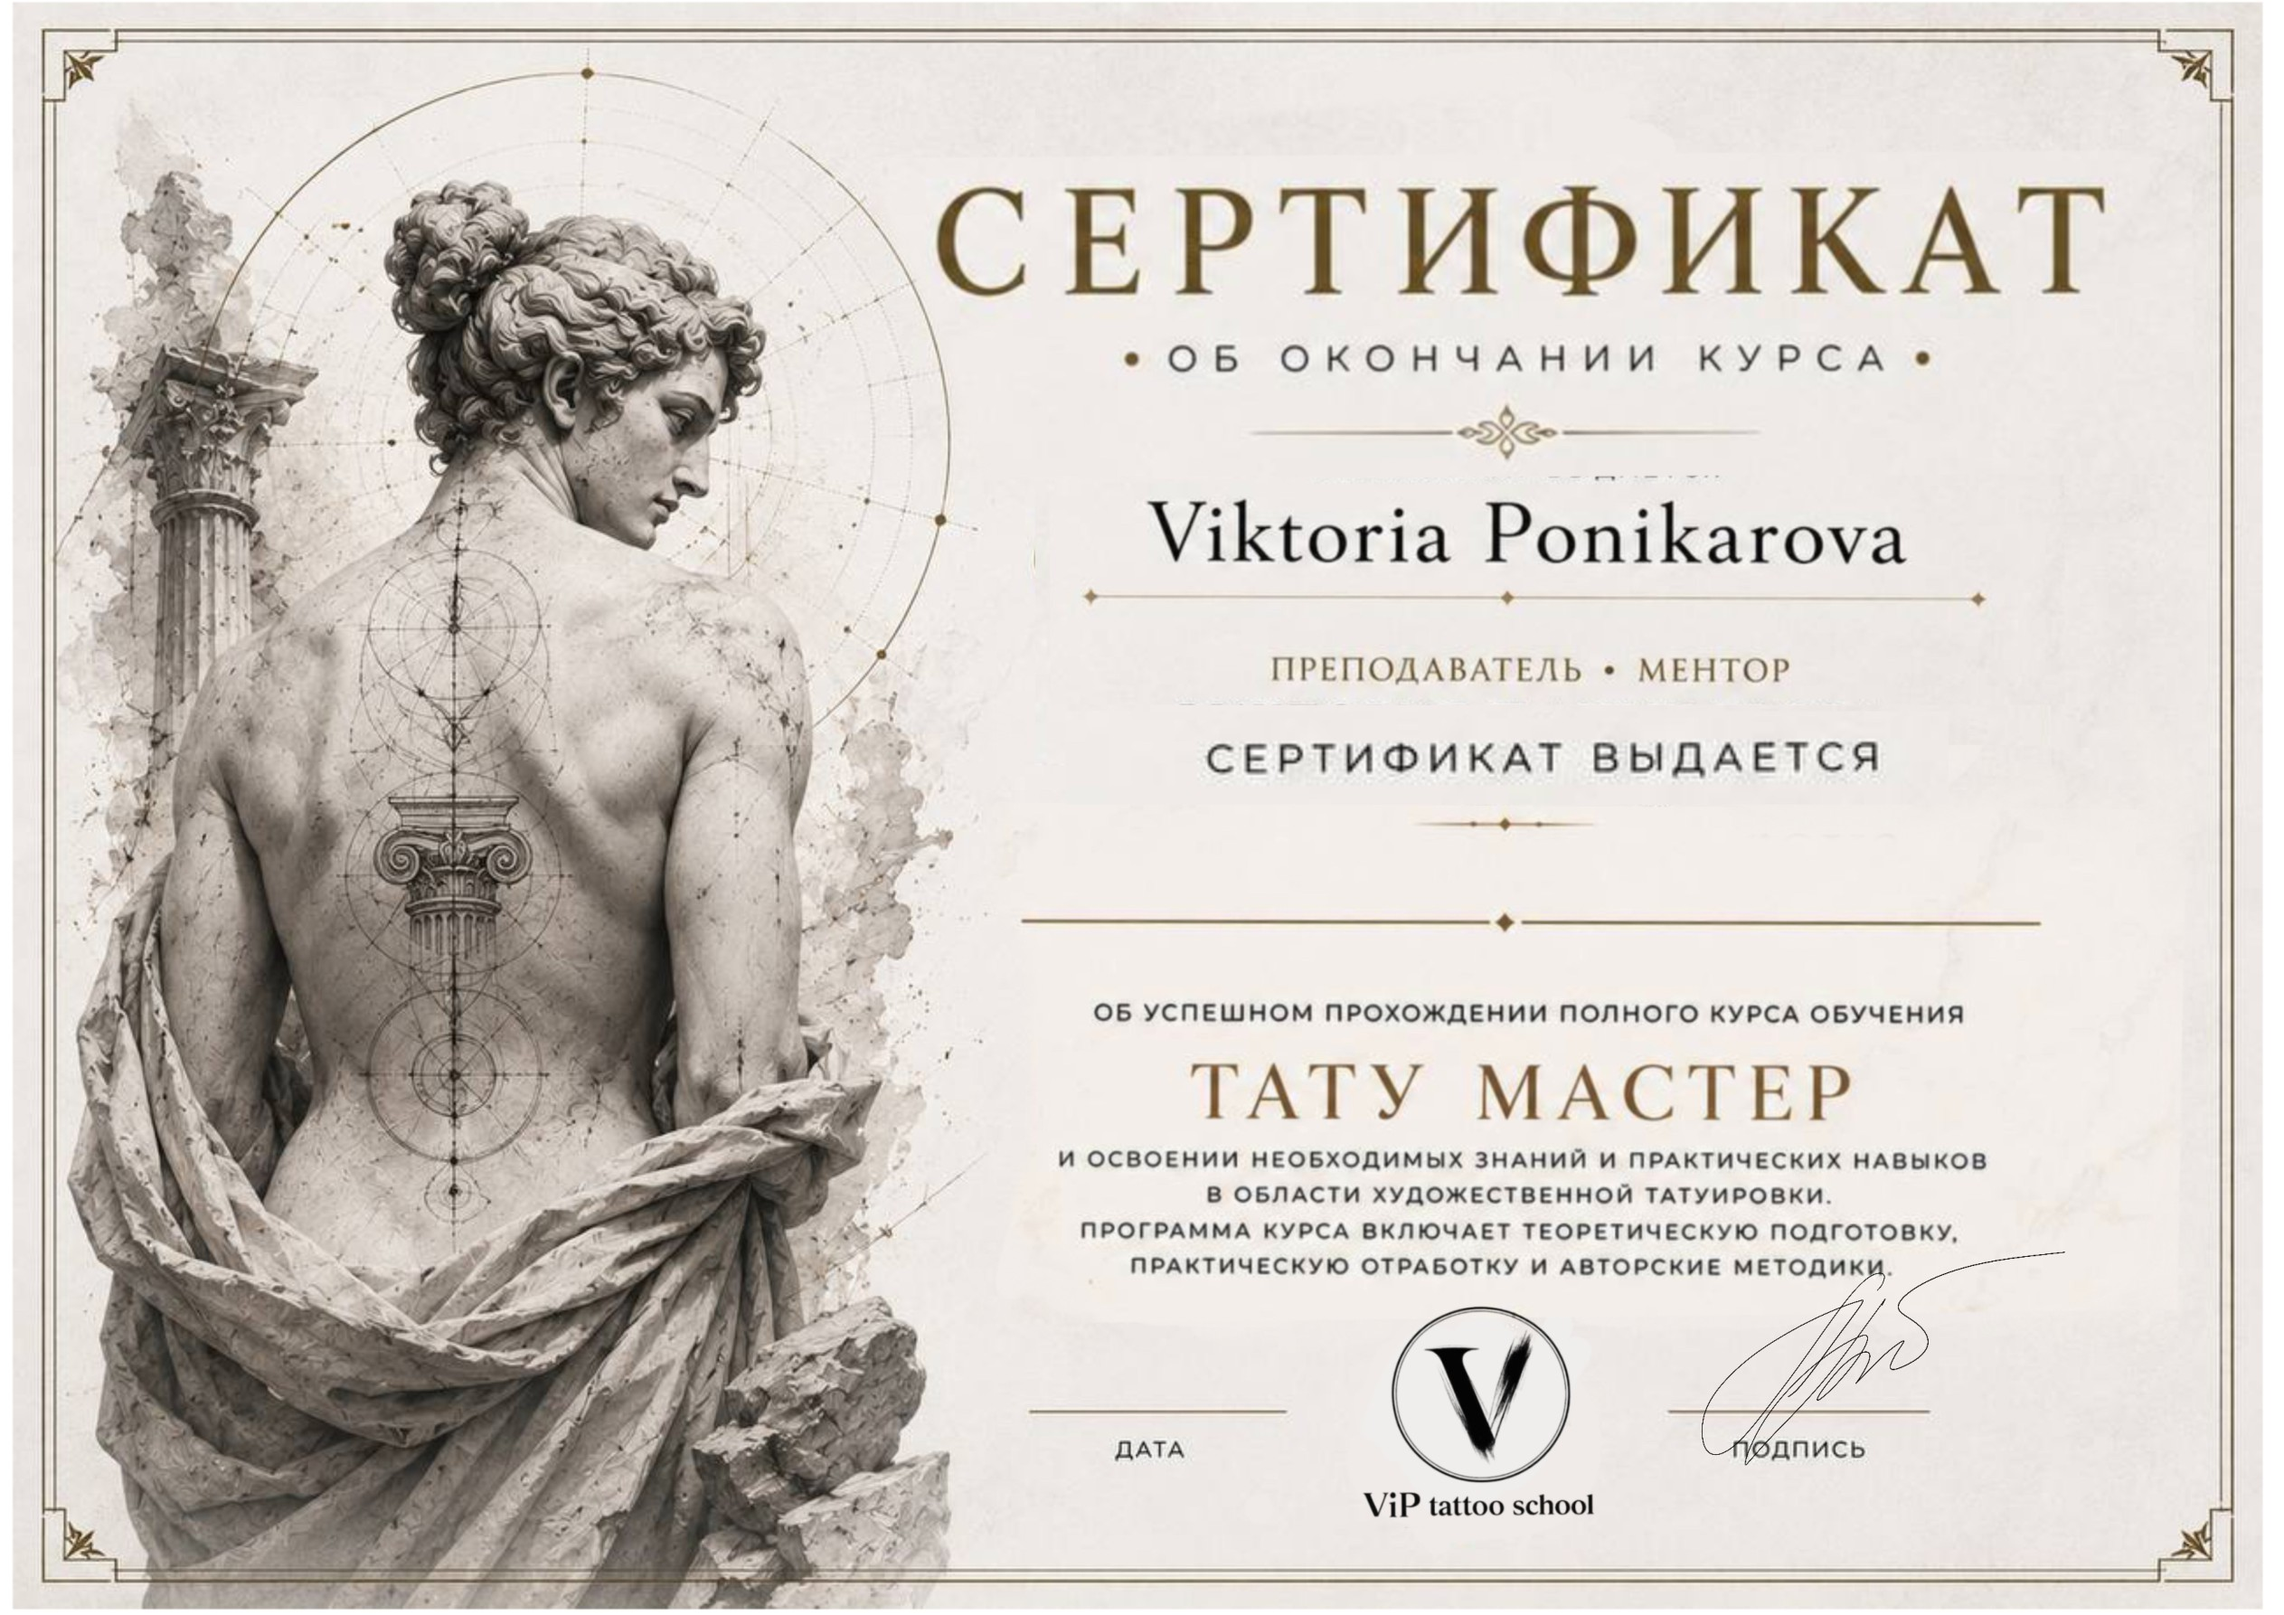
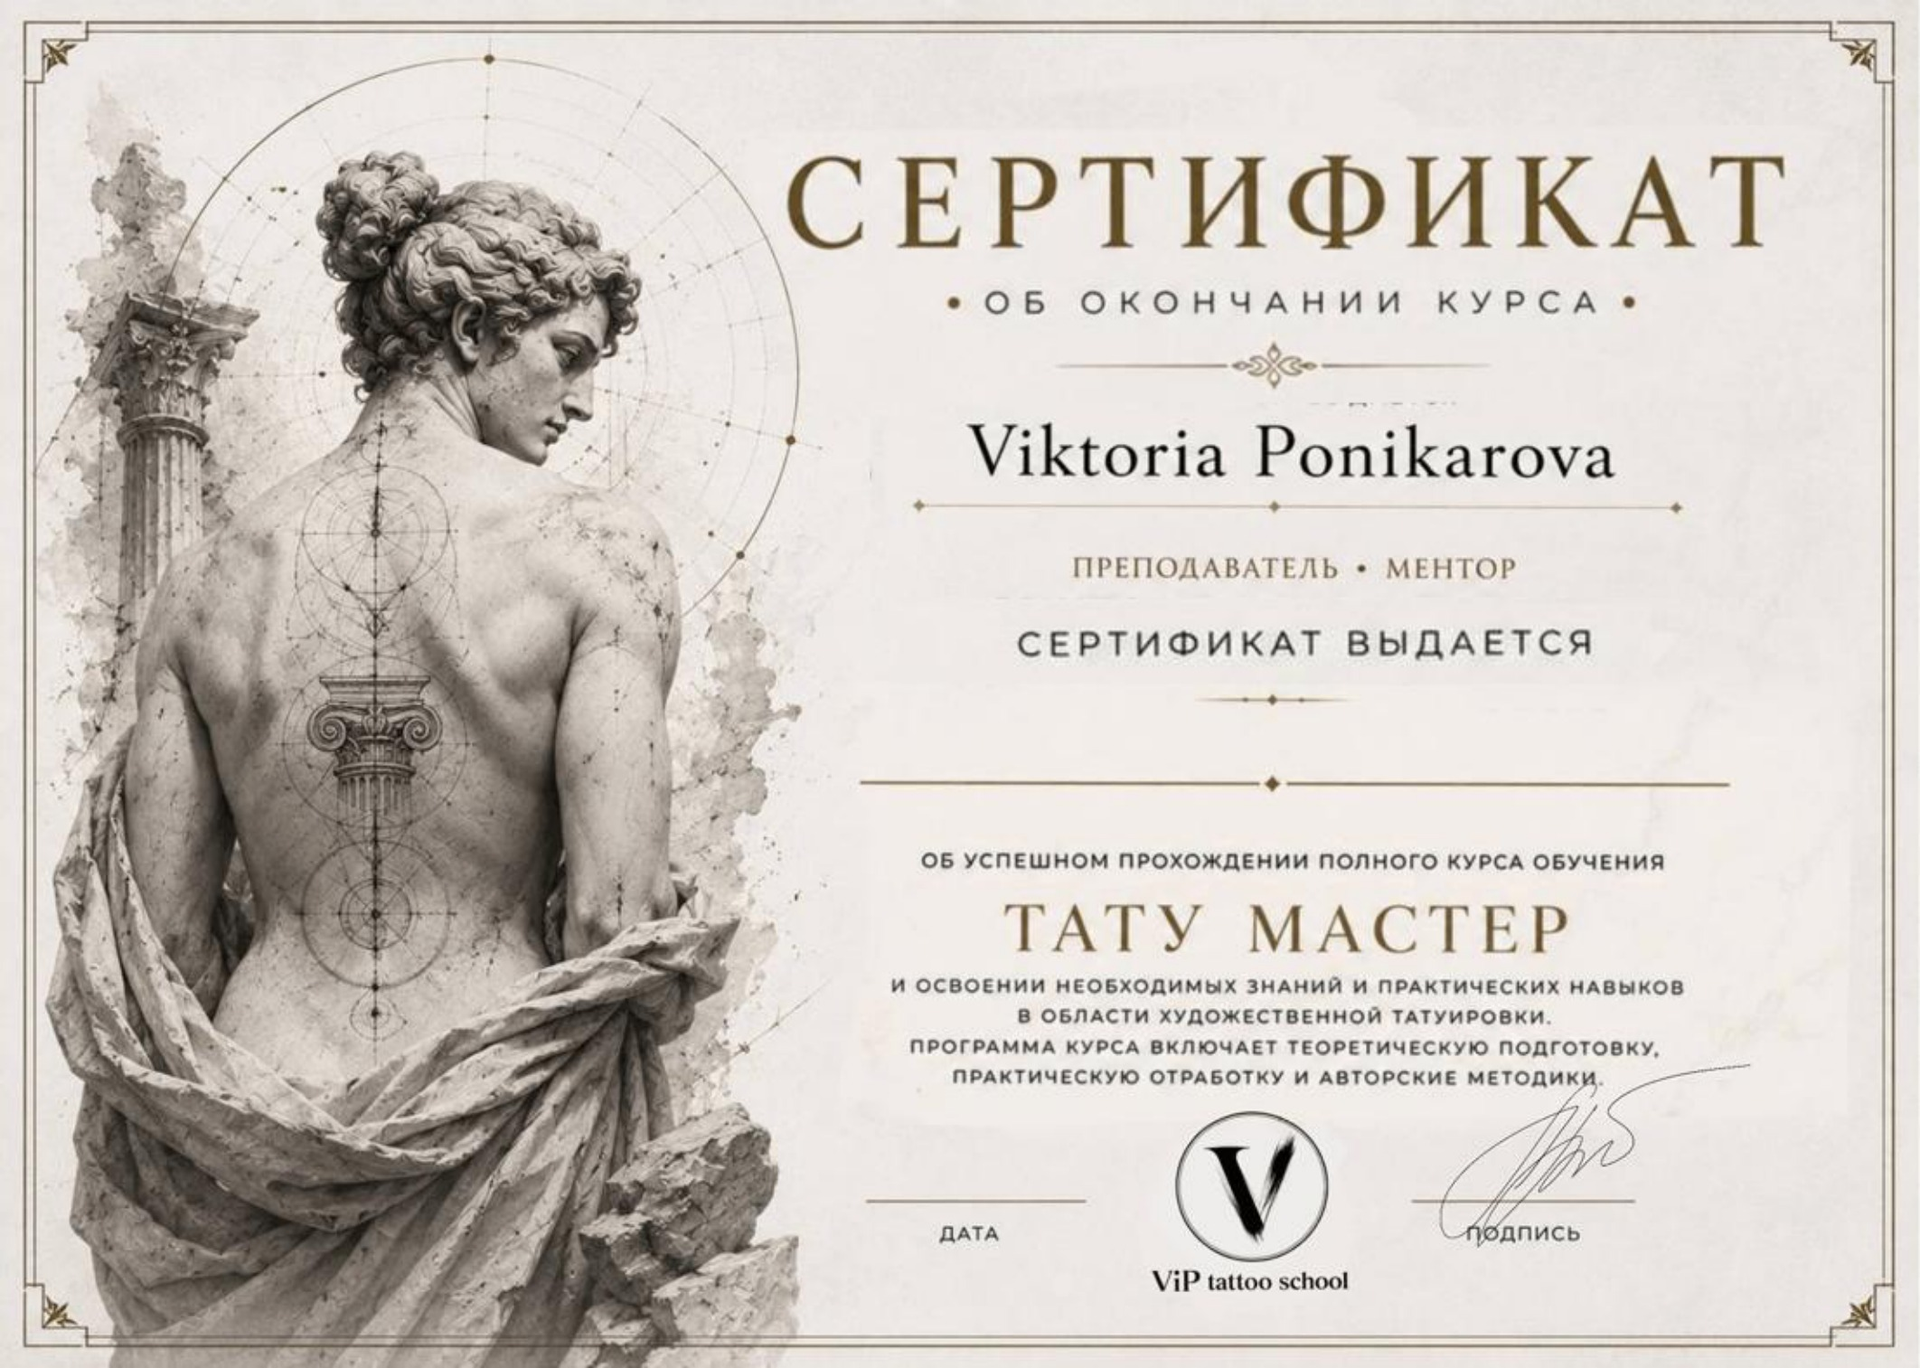
fix: swap in higher-quality certificate scan, shrink it across all breakpoints
New PDF render has crisp vector-drawn text over the certificate body
instead of the softer raster text in the first version. Also reduced
the mount width (100%/480px cap -> 88%/400px cap) so the certificate
reads smaller on every screen size, not just desktop.

diff --git a/style-base.css b/style-base.css
@@ -2908,8 +2908,8 @@ body.nav-open {
 }
 
 .certificate-tilt-mount {
-  width: 100%;
-  max-width: 480px;
+  width: 88%;
+  max-width: 400px;
   margin-inline: auto;
 }
 
